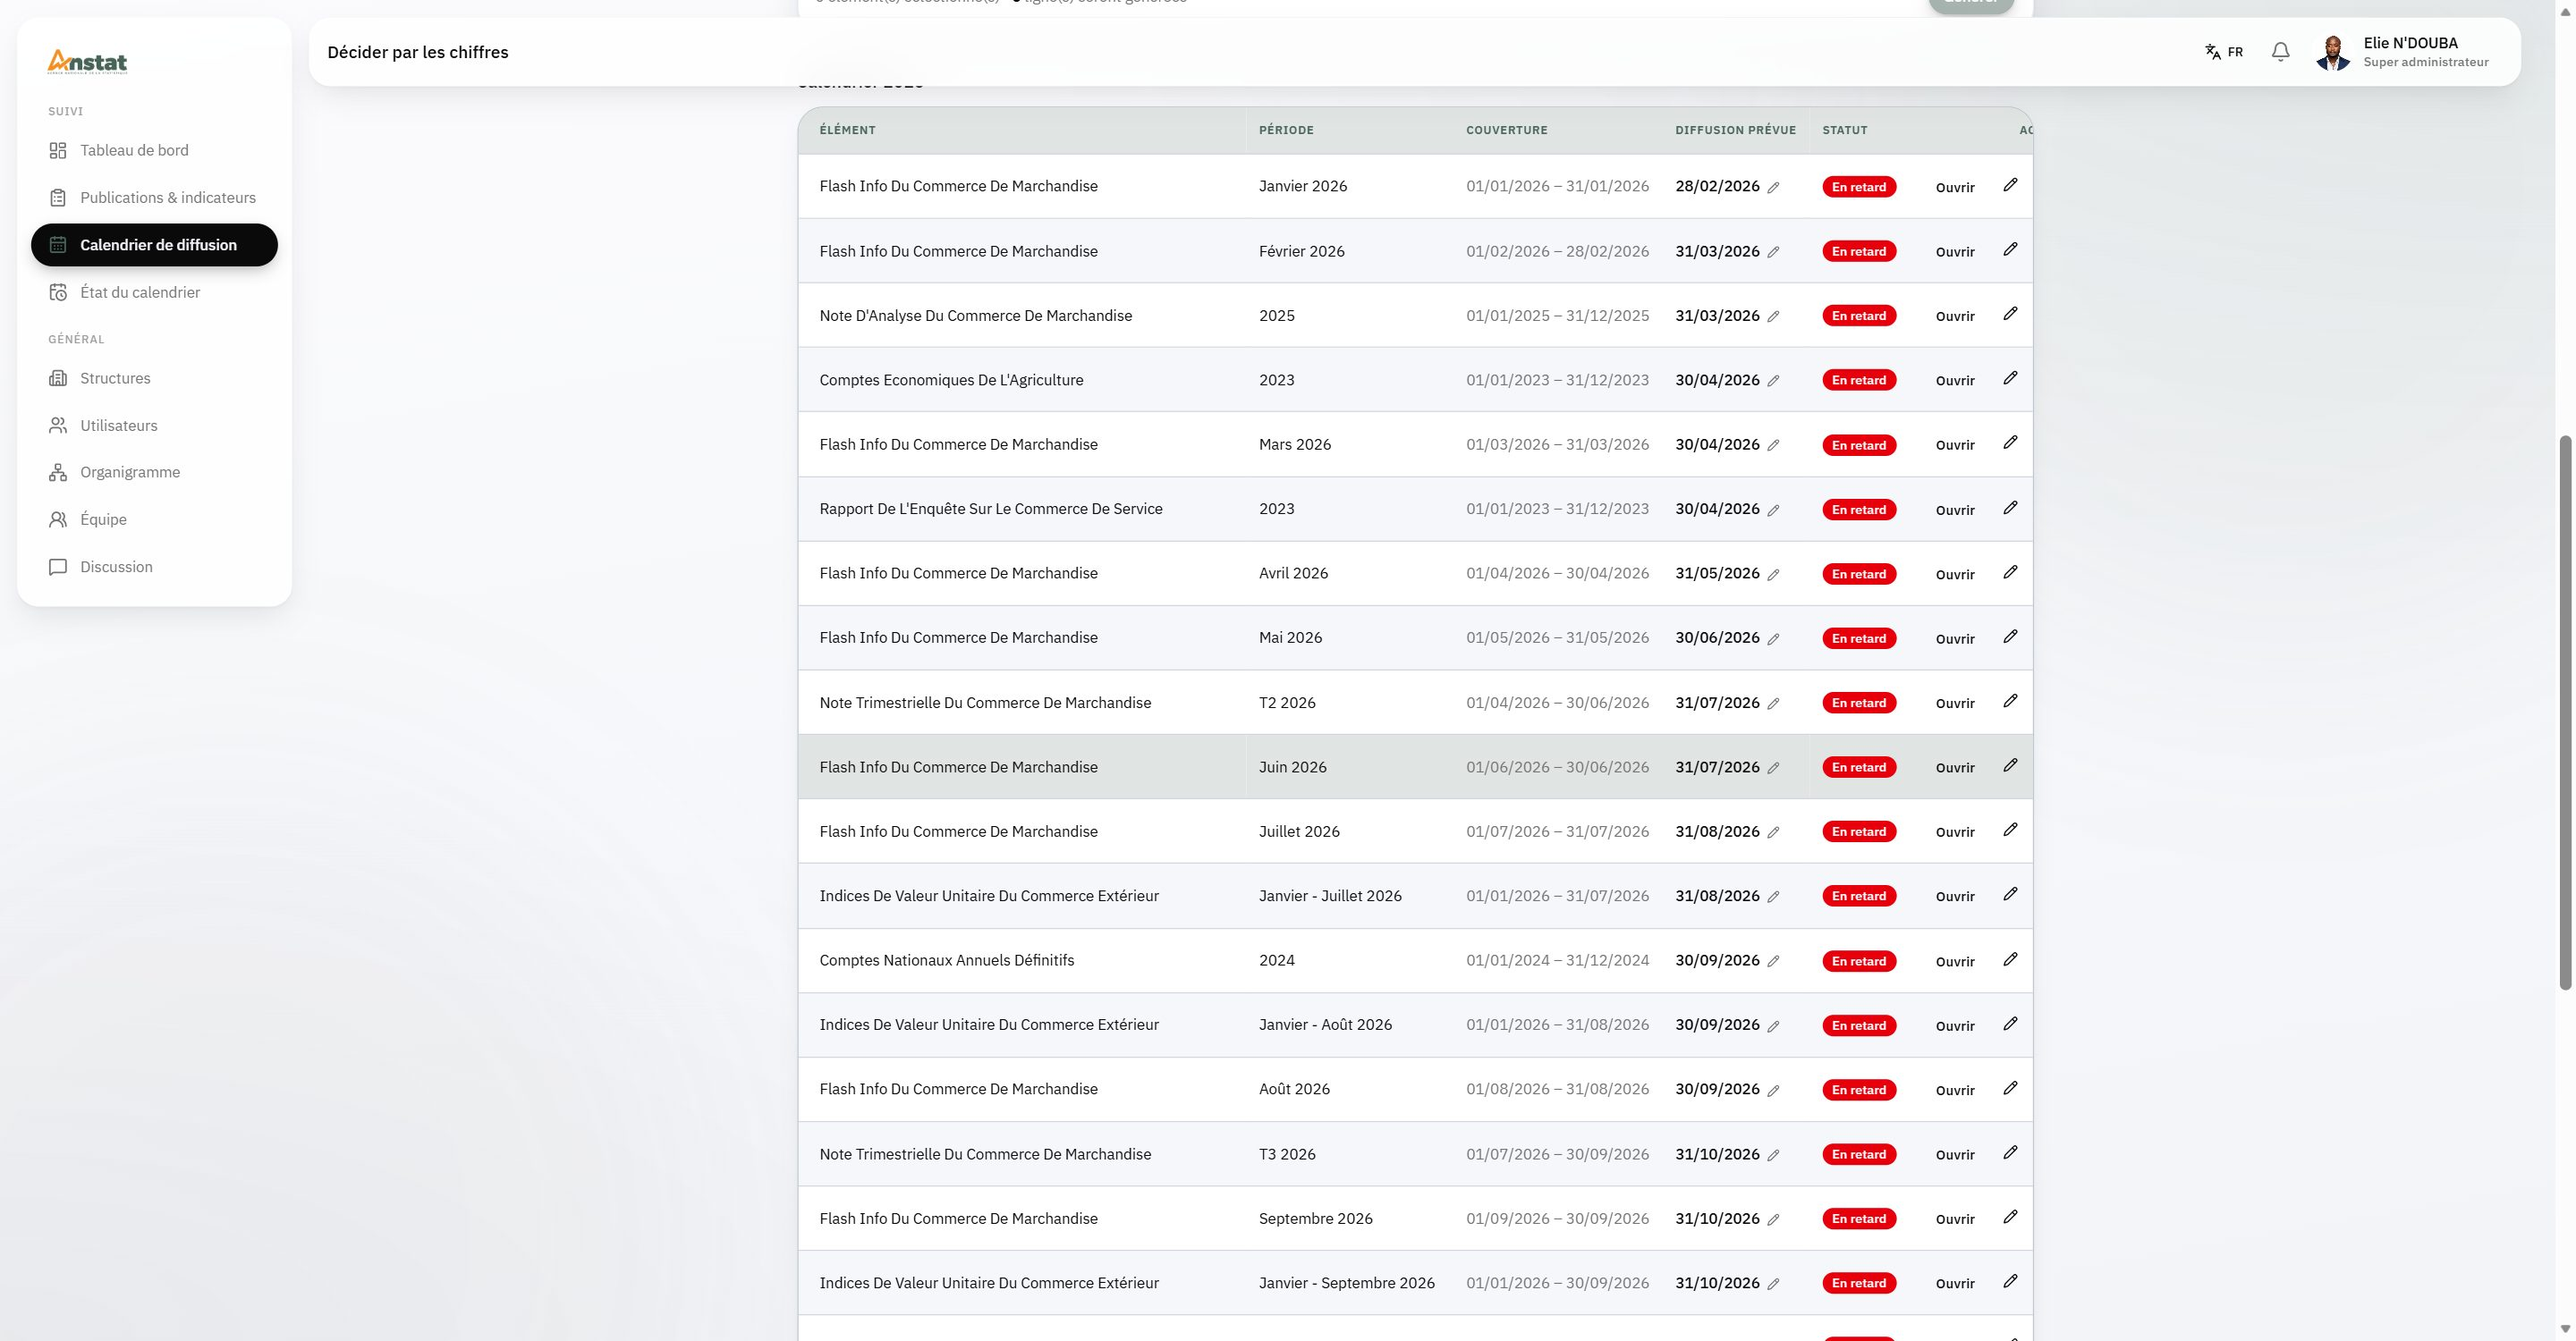
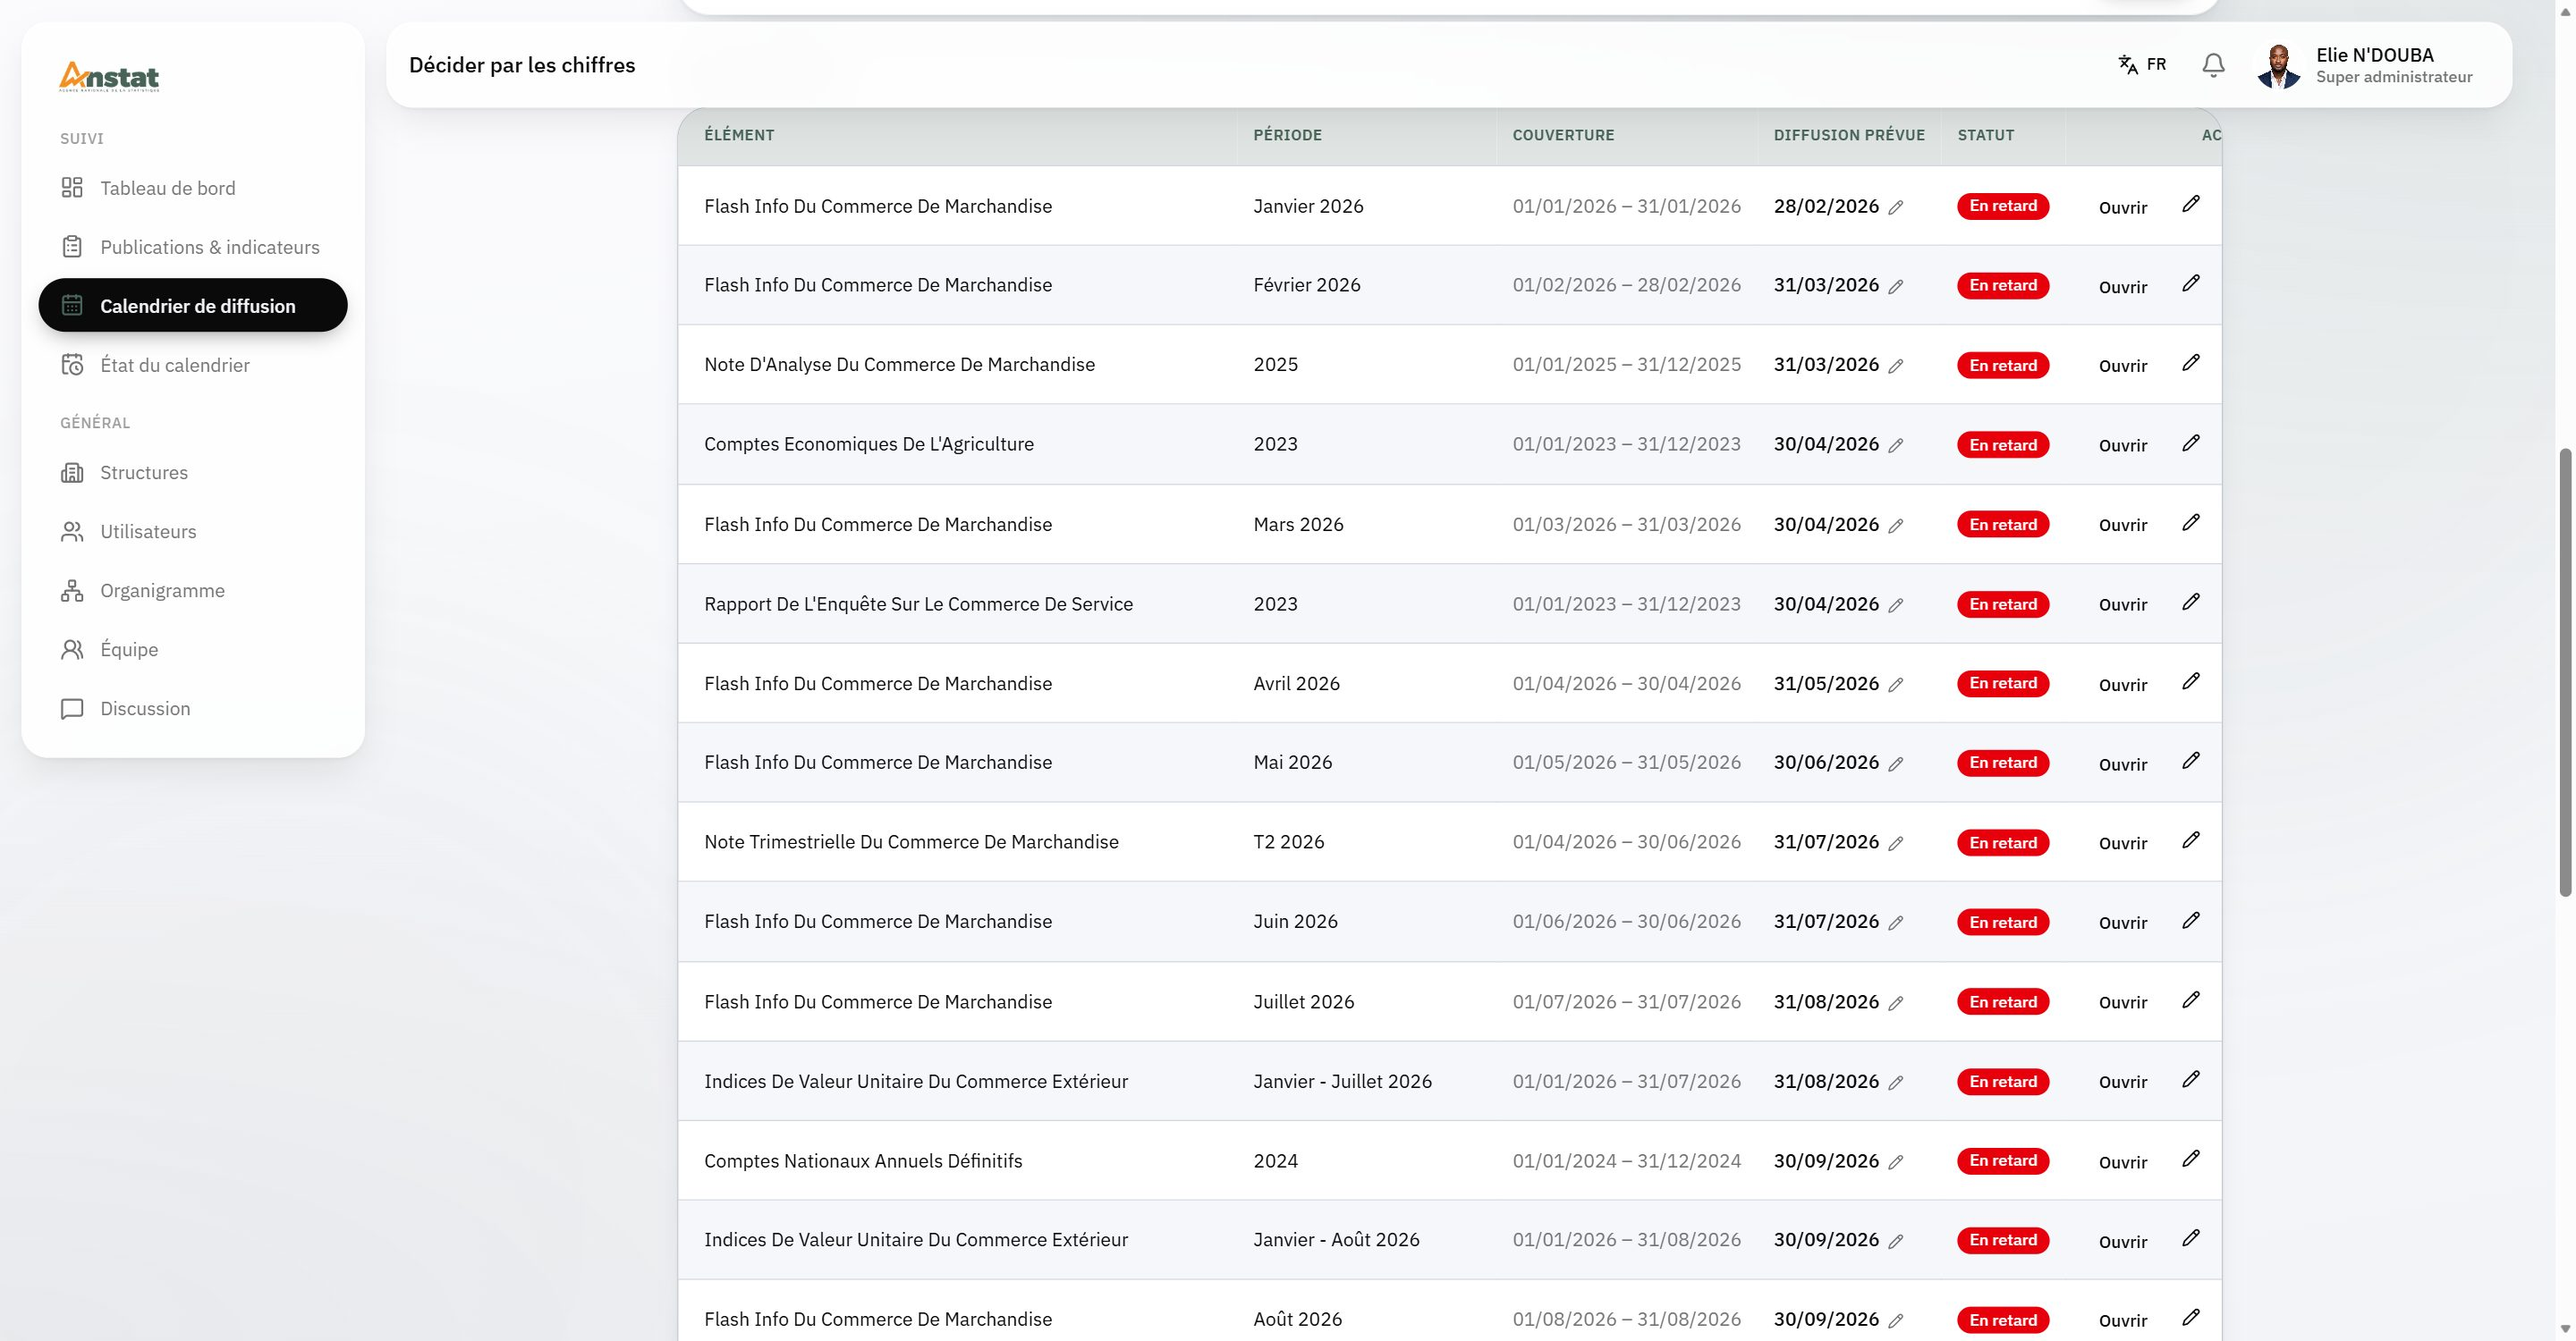
docs(documentation): reperes du calendrier et des retards corriges

diff --git a/documentation/contenu.ts b/documentation/contenu.ts
@@ -370,7 +370,7 @@ export const DOCUMENTATION: Partie[] = [
             type: 'etapes',
             capture: { fichier: 'calendrier.jpg', chemin: '/calendrier', legende: 'L’en-tête du calendrier' },
             etapes: [
-              { texte: 'Choisissez la **structure** et l’**année** à afficher.', cible: { texte: 'Structure', rang: 0 } },
+              { texte: 'Choisissez la **structure** et l’**année** à afficher.', cible: { role: 'combobox', rang: 0 } },
               { texte: 'Téléchargez le calendrier de la structure en **Excel** ou **PDF**, ou le **calendrier global** de toutes les structures.', cible: { css: 'a[href*="export/calendrier"]' } },
               { texte: 'Le **bandeau d’état** indique où en est le calendrier (Brouillon, Soumis, Validé) et son nombre de lignes.', cible: { texte: 'Brouillon' } },
               { texte: 'Le bouton d’action du bandeau fait avancer le calendrier : **Soumettre pour validation**, **Valider**, **Renvoyer pour correction**…', cible: { role: 'button', nom: 'Soumettre pour validation' } },
@@ -420,7 +420,6 @@ export const DOCUMENTATION: Partie[] = [
               chemin: '/calendrier',
               legende: 'Les lignes du calendrier',
               fenetre: { width: 1920, height: 1000 },
-              zoom: 0.8,
               defilerVers: { texte: 'Diffusion prévue', rang: 0 },
             },
             etapes: [
@@ -547,7 +546,7 @@ export const DOCUMENTATION: Partie[] = [
               chemin: '/etat-calendrier?onglet=retard',
               legende: 'Les publications en retard',
               fenetre: { width: 1920, height: 1000 },
-              zoom: 0.72,
+              defilerVers: { role: 'button', nom: '^(Justifier|Reporter)$' },
             },
             etapes: [
               { texte: 'Chaque ligne donne le produit, la période, la **date non respectée**, le nombre de jours de retard et l’état de publication.' },
